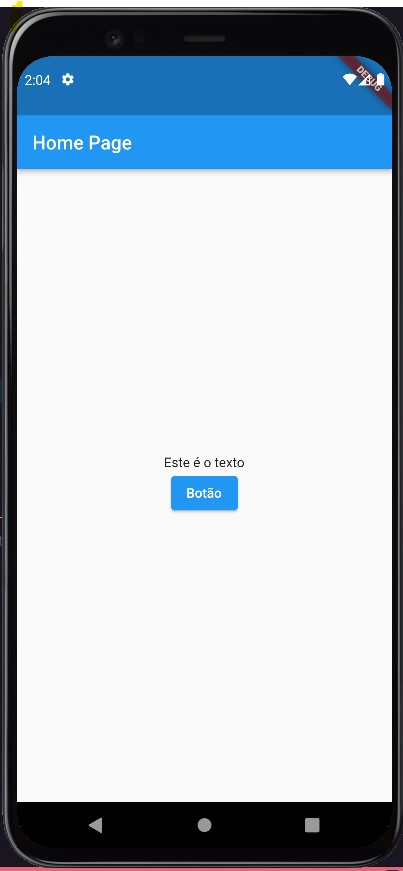
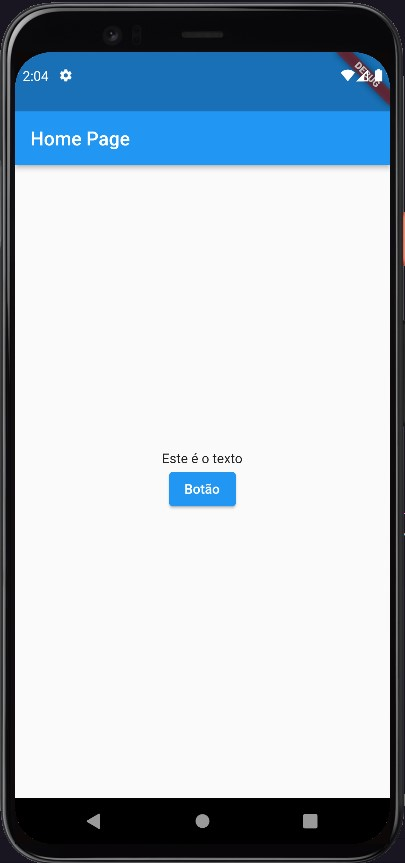
update

Changed region(s): [[0.0, 0.0, 1.0, 1.0], [0.3871, 0.5122, 0.5955, 0.6025]]

diff --git a/Flutter/Apoio_Widgets/ValueNotifier_navegação.md b/Flutter/Apoio_Widgets/ValueNotifier_navegação.md
@@ -42,4 +42,10 @@ class _HomePageState extends State<HomePage> {
   }
 }
 ```
-![Logo do Markdown](./Flutter/assets/Tela/oldScreen.jpg)
+> Exemplo tela antiga (nao atualizada)<br>
+
+![Old Screen](/Flutter/assets/Tela/oldScreen.jpg)
+
+> Exemplo tela nova (atualizada) <br>
+
+![New Screen](/Flutter/assets/Tela/newScreen.jpg)

diff --git a/Flutter/Apoio_Widgets/SetState_navegação.md b/Flutter/Apoio_Widgets/SetState_navegação.md
@@ -69,3 +69,10 @@ ElevatedButton(onPressed: (valor){
     texto = valor;
 }, child: Text('Botão'))
 ```  
+> Exemplo tela antiga (nao atualizada)<br>
+
+![Old Screen](/Flutter/assets/Tela/oldScreen.jpg)
+
+> Exemplo tela nova (atualizada) <br>
+
+![New Screen](/Flutter/assets/Tela/newScreen.jpg)

diff --git a/Flutter/Apoio_Widgets/ChangeNotifier_navegação.md b/Flutter/Apoio_Widgets/ChangeNotifier_navegação.md
@@ -49,3 +49,10 @@ class _HomePageState extends State<HomePage> {
   }
 }
 ```
+> Exemplo tela antiga (nao atualizada)<br>
+
+![Old Screen](/Flutter/assets/Tela/oldScreen.jpg)
+
+> Exemplo tela nova (atualizada) <br>
+
+![New Screen](/Flutter/assets/Tela/newScreen.jpg)
